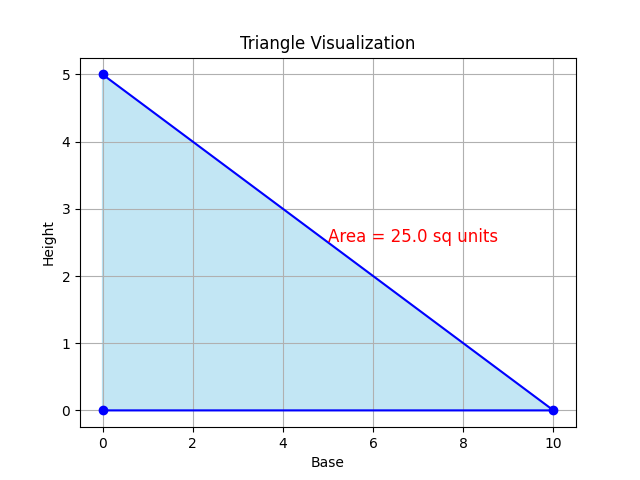
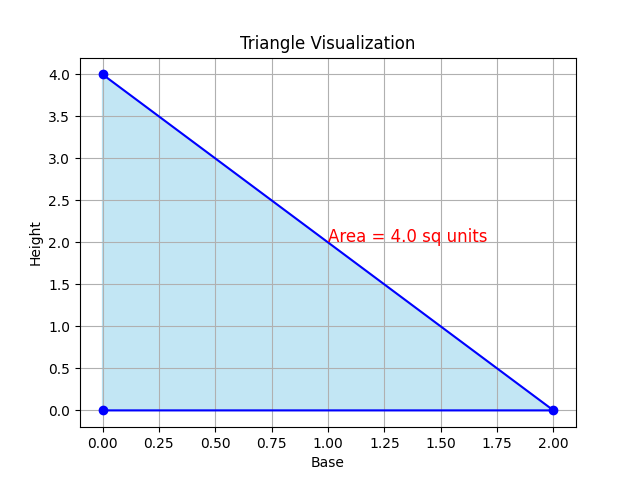
update app.py file

diff --git a/templates/result.html b/templates/result.html
@@ -10,6 +10,13 @@
         <p>Base: {{ base }} units</p>
         <p>Height: {{ height }} units</p>
         <p>Area: {{ area }} square units</p>
+        
+        <!-- Adding visualization section -->
+        <div class="visualization">
+            <h2>Triangle Visualization</h2>
+            <img src="{{ img_url }}" alt="Triangle Visualization">
+        </div>
+
         <a href="/" class="btn">Back to Home</a>
         <a href="/input" class="btn">Calculate Again</a>
     </div>

diff --git a/app.py b/app.py
@@ -32,7 +32,24 @@ def input_triangle():
         base = float(request.form["base"])
         height = float(request.form["height"])
         area = 0.5 * base * height
-        return render_template("result.html", base=base, height=height, area=area)
+
+        # Generate visualization
+        img_path = "static/triangle.png"
+        try:
+            plt.figure()
+            plt.plot([0, base, 0], [0, 0, height], marker="o", linestyle="-", color="blue")
+            plt.fill([0, base, 0], [0, 0, height], color="skyblue", alpha=0.5)
+            plt.text(base/2, height/2, f"Area = {area} sq units", fontsize=12, color="red")
+            plt.title("Triangle Visualization")
+            plt.xlabel("Base")
+            plt.ylabel("Height")
+            plt.grid(True)
+            plt.savefig(img_path)
+            plt.close()
+        except Exception as e:
+            print(f"Error generating image: {e}")
+
+        return render_template("result.html", base=base, height=height, area=area, img_url=f"/{img_path}")
     return render_template("input.html")
 
 # Examples Route: Fetch data from the ontology
@@ -113,27 +130,6 @@ def quiz():
             
     return render_template("quiz.html")
 
-# Visualization Route: Generate a triangle diagram
-@app.route("/visualize/<float:base>/<float:height>")
-def visualize_triangle(base, height):
-    img_path = "static/triangle.png"  # Image file path
-    try:
-        plt.figure()
-        plt.plot([0, base, 0], [0, 0, height], marker="o", linestyle="-", color="blue")
-        plt.fill([0, base, 0], [0, 0, height], color="skyblue", alpha=0.5)
-        plt.text(base/2, height/2, f"Area = {0.5 * base * height} sq units", fontsize=12, color="red")
-        plt.title("Triangle Visualization")
-        plt.xlabel("Base")
-        plt.ylabel("Height")
-        plt.grid(True)
-        plt.savefig(img_path)
-        plt.close()
-        print(f"Image saved to {img_path}")
-    except Exception as e:
-        print(f"Error generating image: {e}")
-        return "Error generating triangle visualization."
-
-    return render_template("visual.html", img_url=f"/{img_path}")
 
 if __name__ == "__main__":
     app.run(debug=True)
